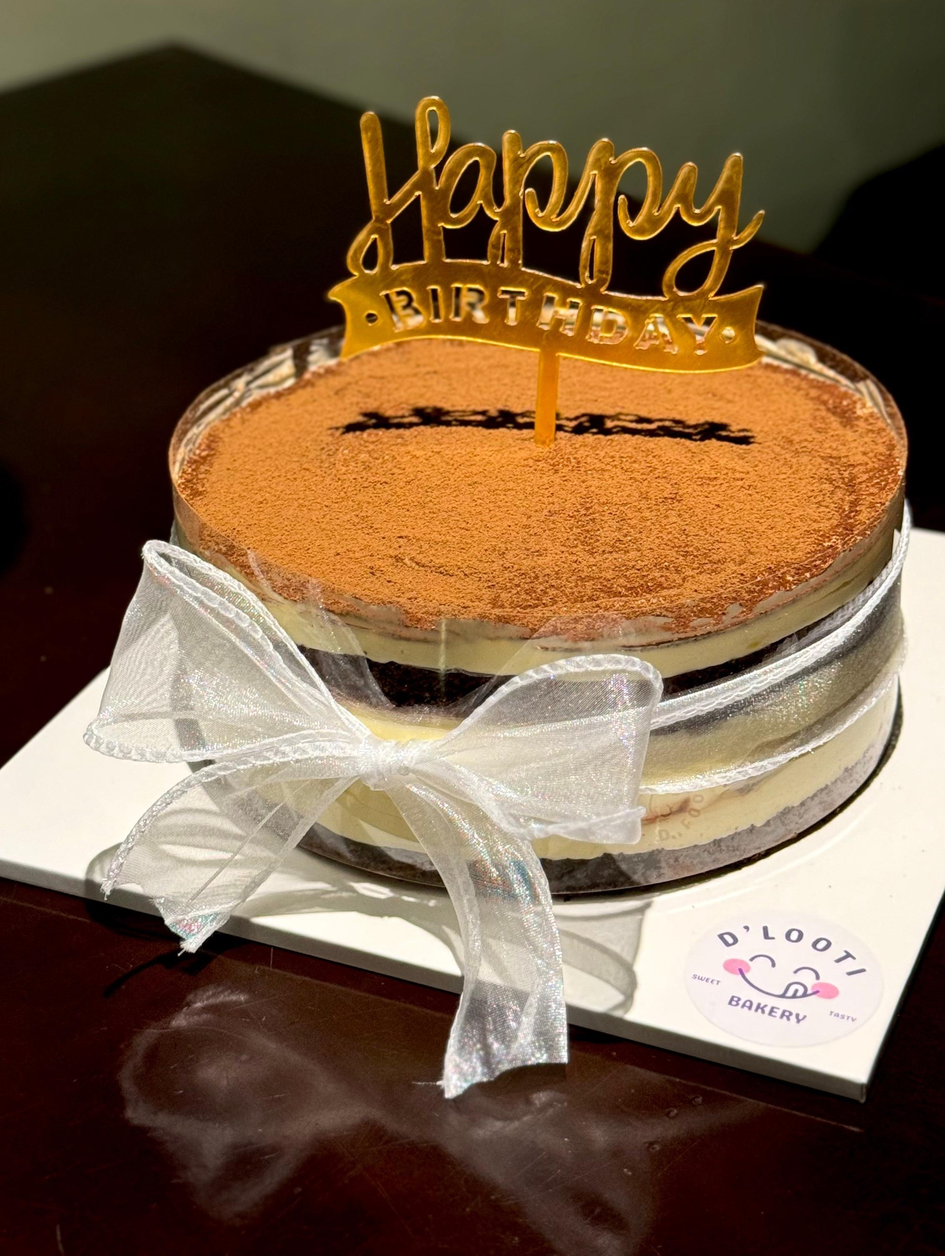
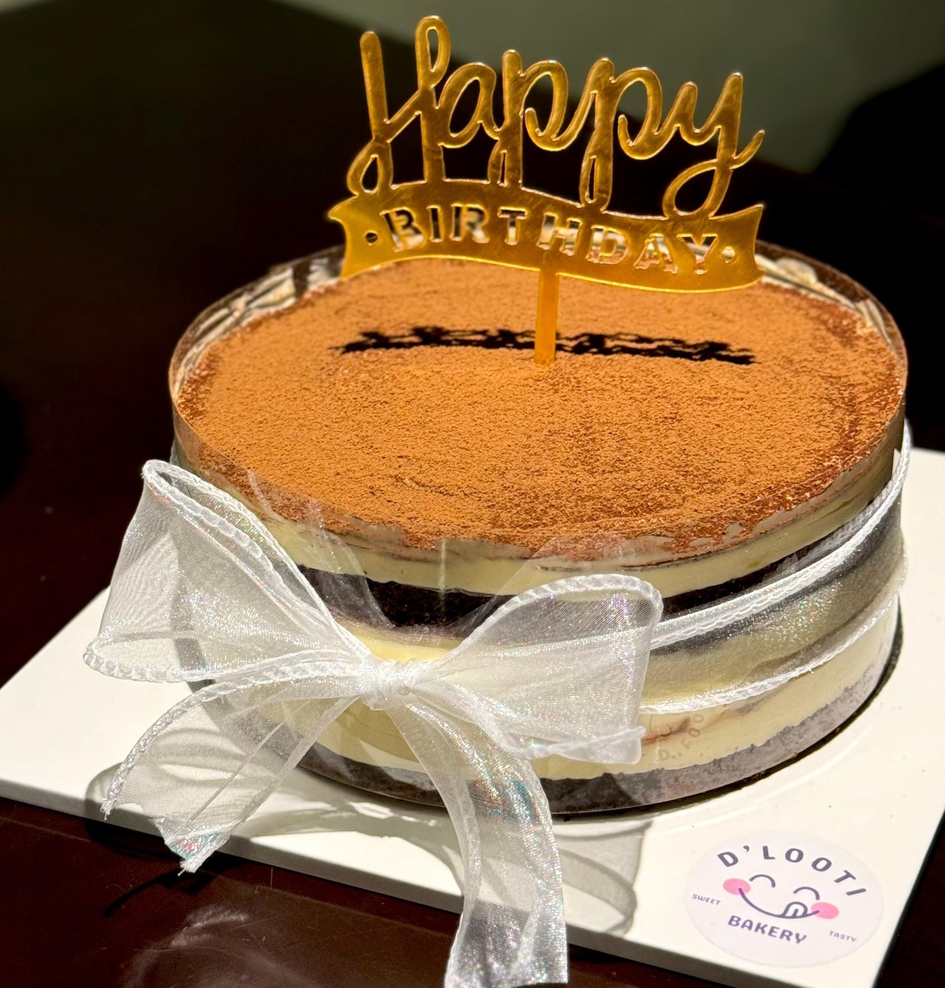
make mobile and web design responsive in section home

diff --git a/src/app/footer.tsx b/src/app/footer.tsx
@@ -52,13 +52,13 @@ export default function Footer() {
             <div className="text-[#f84d78] text-xl font-semibold mt-4">About</div>
             <div className="flex flex-col mt-2 text-white">
               <div className="hover:text-[#f66186] text-md mt-2 duration-300 ease-out">
-                <Link href='#'>About Us</Link>
+                <Link href='/about'>About Us</Link>
               </div>
               <div className="hover:text-[#f66186] text-md mt-2 duration-300 ease-out">
-                <Link href='#'>Location</Link>
+                <Link href='/outlet'>Location</Link>
               </div>
               <div className="hover:text-[#f66186] text-md mt-2 duration-300 ease-out">
-                <Link href='#'>Contact Us</Link>
+                <Link href='/review'>Review</Link>
               </div>
             </div>
           </div>
@@ -67,10 +67,10 @@ export default function Footer() {
             <div className="text-[#f84d78] text-xl font-semibold mt-4">Support</div>
             <div className="flex flex-col mt-2 text-white">
               <div className="hover:text-[#f66186] text-md mt-2 duration-300 ease-out">
-                <Link href='#'>Privacy Policy</Link>
+                <Link href='#' className="pointer-events-none">Privacy Policy</Link>
               </div>
               <div className="hover:text-[#f66186] text-md mt-2 duration-300 ease-out">
-                <Link href='#'>Terms</Link>
+                <Link href='#' className="pointer-events-none">Terms</Link>
               </div>
             </div>
             </div>

diff --git a/src/app/navbar.tsx b/src/app/navbar.tsx
@@ -74,15 +74,32 @@ function Navbar() {
         </ul>
       </div>
 
-      <div>
-        <Image 
-          src='/icons/instagram.png' 
-          alt='instagram'
-          className='w-9 h-9 mr-4'
-          width={500}
-          height={500}
-        />
+      <div className='flex'>
+        <div className='group'>
+          <Link href='https://www.instagram.com/dlooti_' target='_blank'>
+            <Image 
+            src='/icons/instagram.png' 
+            alt='instagram'
+            className='w-9 h-9 mr-4 group-hover:-translate-y-2 shadow-lg duration-300 ease-out'
+            width={500}
+            height={500}
+            />
+        </Link>
       </div>
+
+      <div className='group'>
+        <Link href='https://www.tiktok.com/@dlooti' target='_blank'>
+          <Image 
+            src='/icons/tiktok.png' 
+            alt='tiktok'
+            className='w-9 h-9 mr-4 group-hover:-translate-y-2 shadow-lg duration-300 ease-out '
+            width={500}
+            height={500}
+            />
+        </Link>
+      </div>
+      </div>
+      
     </header>
   ) 
 }

diff --git a/src/components/fragments/PostCardCategory.tsx b/src/components/fragments/PostCardCategory.tsx
@@ -2,7 +2,8 @@ import Image from "next/image"
 
 export default function PostCardCategory({src,alt} : {src: string,alt: string}){
   return (
-    <div className="h-72 sm:h-80 lg:h-96 max-w-lg sm:max-w-2xl lg:max-w-4xl my-8 mx-14 md:mx-auto relative overflow-hidden group transition-all rounded">
+    <div className="w-full h-72 sm:h-80 lg:h-96 xl:h-[450px] max-w-xs sm:max-w-sm md:max-w-md lg:max-w-lg xl:max-w-xl aspect-[4/5] overflow-hidden rounded shadow-lg mx-auto relative group transition-all my-8">
+    {/* <div className="h-72 sm:h-80 lg:h-96 xl:h-[450px] max-w-lg sm:max-w-2xl md:max-w-4xl lg:max-w-6xl xl:max-w-7xl my-8 mx-14 xl:mx-auto relative overflow-hidden group transition-all rounded"></div> */}
       <Image src={src}
         alt={alt}
         className="w-full h-full object-cover duration-300 group-hover:scale-110"

diff --git a/src/app/page.tsx b/src/app/page.tsx
@@ -22,7 +22,7 @@ export default function Home() {
       <p className="ml-4 mt-10 text-3xl">Indulge yourself with our premium bread and pastries.</p>
       
       <Link href={`/product/${encodeURIComponent('Burnt Cheese Cake')}`}>
-        <PostCardCategory src='/product/Burnt Cheese Cake/Burnt Cheese Cake Brownie.jpeg' 
+        <PostCardCategory src='/product/Burnt Cheese Cake/Burnt Cheese Cake with Topping.jpeg' 
                           alt='BURNT CHEESE CAKE'/>
       </Link>
 
